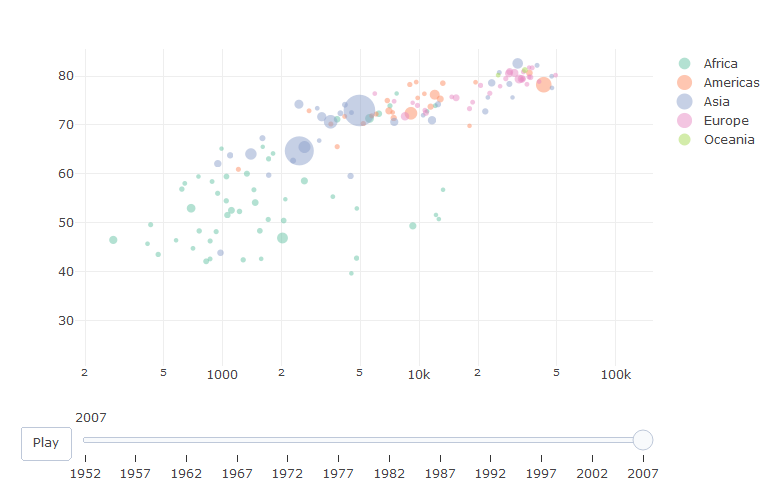
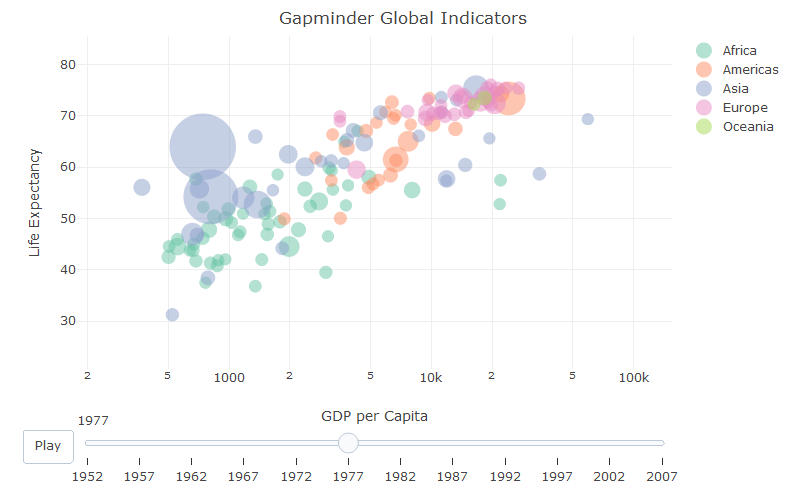
update documentation to align with latest implementation

diff --git a/README.md b/README.md
@@ -43,28 +43,36 @@ The package includes an example R Markdown example *example/example.Rmd*. This e
 install.packages("gapminder")
 ````
 
+
 ### Dislay a bubbly plot 
 
-Please make sure you installed the package.
 
+## Load the package
+
+Please make sure you installed the `rbubbly` package.
+To install the package, you will need to include this line in your script/RMarkdown/Notebook
 
 ````
 #load the package
 library(rbubbly)
+````
 
+## Plot Gapminder Global Indicators
+
+With the data from `gapminder` you can display a plot similar with Gapminder plots, developed by Rosling.
+In this example, we will show `Gapminder Global Indicators`, with  `GDP per Capita` on x-axis and `Life Expectancy` on y-axis. For each `country` is shown a bubble. The bubbles size is corelated with the `population` size. Bubble colors are associated with the `continents` (one color for each continent).
+
+
+````
 #load the library gapminder
 library(gapminder)
 
-#define the entry parameters for rbubbly
-xcolumn = gapminder$gdpPercap
-ycolumn = gapminder$lifeExp
-bubblecolumn = gapminder$pop
-colorcolumn = gapminder$continent
-slidercolumn = gapminder$year
-textcolumn = gapminder$country
-
 #call the rbubbly function
-rbubbly(gapminder, xcolumn, ycolumn,bubblecolumn,colorcolumn,slidercolumn,textcolumn)
+rbubbly::  rbubbly(dataset = gapminder, x_column = gapminder$gdpPercap, y_column = gapminder$lifeExp,
+                 bubble_column = gapminder$pop, color_column = gapminder$continent,
+                 slider_column = gapminder$year, text_column = gapminder$country,
+                 x_title="GDP per Capita", y_title="Life Expectancy", title='Gapminder Global Indicators',
+                 x_is_log = TRUE, scale_bubble = 1)
 
 ````
 
